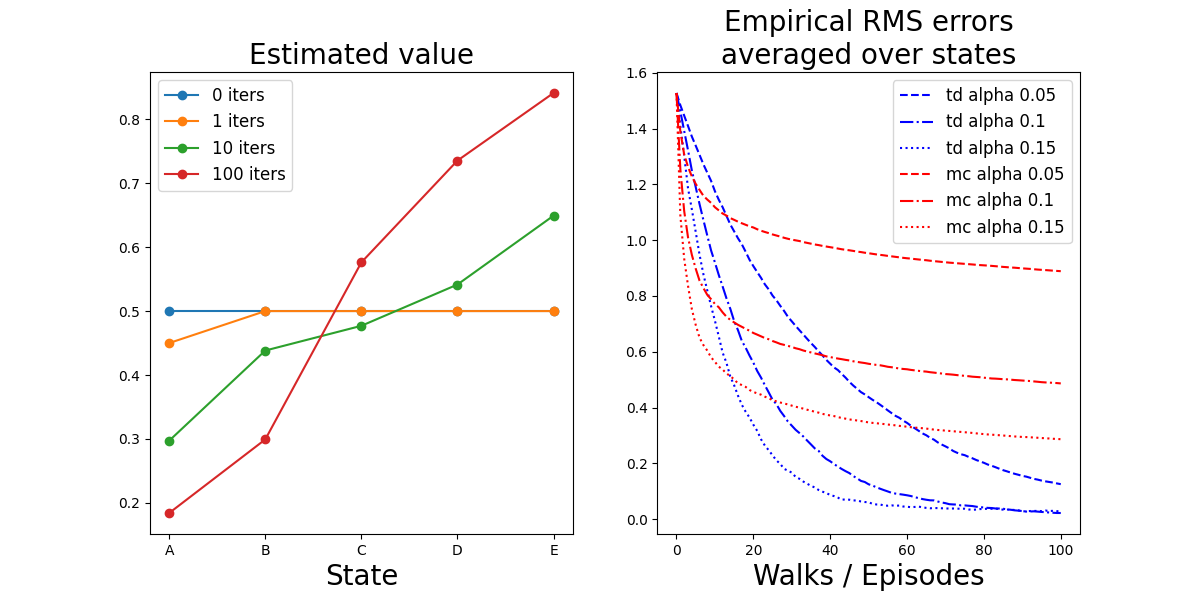
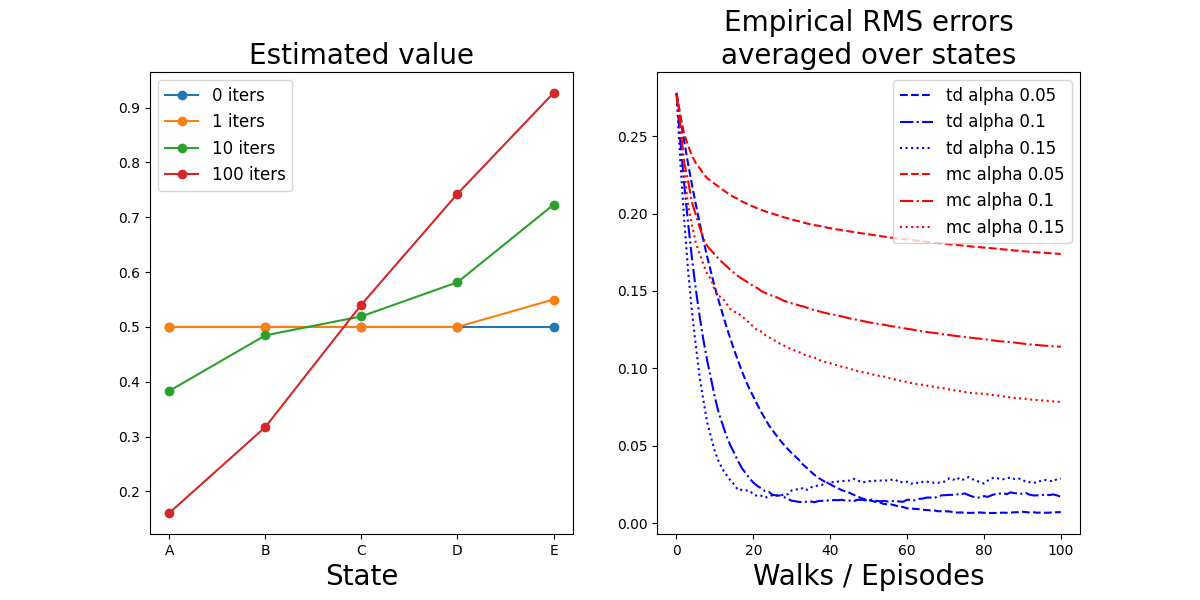
Fix init value in right image

diff --git a/chapter6/main.py b/chapter6/main.py
@@ -57,15 +57,18 @@ def _parallel_evaluation(n_runs: int, *args):
 
 
 def _figure_6_2_right(n_states, init_value, ax):
+    real_value = np.arange(1, n_states + 1) / (n_states + 1)
+    init_state = 0.5
+
     env = RandomWalk(n_states)
     td_predictor = TDPredictor(env)
     mc_predictor = MonteCarloPredictor(env)
 
-    real_value = np.arange(1, n_states + 1) / (n_states + 1)
+    td_predictor.reset(init_state)
+    mc_predictor.reset(init_state)
 
     n_episodes = 100
     n_runs = 100
-    linestyles = ["--", "-.", ":"]
     # TD
     td_alphas = [0.05, 0.1, 0.15]
     td_avg_error = []
@@ -82,6 +85,8 @@ def _figure_6_2_right(n_states, init_value, ax):
             _parallel_evaluation(n_runs, mc_predictor, real_value, n_episodes, a)
         )
 
+    # Plot
+    linestyles = ["--", "-.", ":"]
     for alpha, avg_error, style in zip(td_alphas, td_avg_error, linestyles):
         ax.plot(
             np.array(avg_error).mean(0),

diff --git a/chapter5/predictor.py b/chapter5/predictor.py
@@ -79,3 +79,7 @@ class MonteCarloPredictor(Predictor):
                     s_idx = self.state_to_idx(s)
                     self.N[s_idx] += 1
                     self.V[s_idx] += alpha * (G - self.V[s_idx]) / self.N[s_idx]
+
+    def reset(self, init_value: float = 0.0):
+        super(MonteCarloPredictor, self).reset()
+        self.V[...] = init_value
